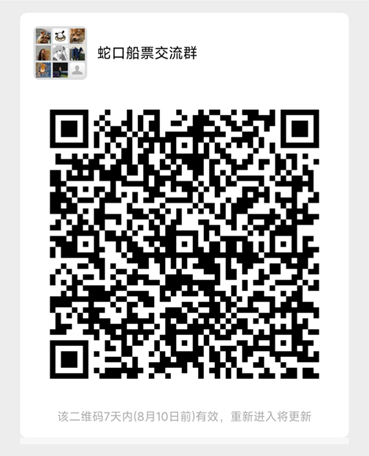
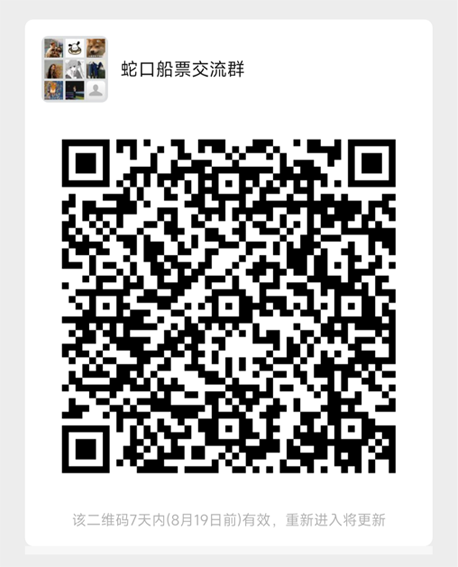
rename file update qr

diff --git a/page/wechat-push-tutorials/wechat-push-tutorials.html b/page/wechat-push-tutorials/wechat-push-tutorials.html
@@ -18,7 +18,7 @@
 
     <h2>1.用微信扫描如下二维码（长按图片，选择识别图中的二维码）</h2>
 
-    <p><img alt="join-qrcode" src="res/join-qrcode.png"/></p>
+    <p><img alt="join-qrcode" src="res/wecom-qr.png"/></p>
 
     <ul>
         <li>PS:若二维码过期，请联系 <a href="mailto:benjia.h@qq.com">benjia.h@qq.com</a>更新</li>
@@ -26,7 +26,7 @@
 
     <h2>2.加入企业微信（无需下载企业微信）</h2>
 
-    <p><img alt="join" src="res/join.png"/></p>
+    <p><img alt="join" src="res/join-wecom.png"/></p>
 
     <h2>3.添加微信插件，用微信扫描如下二维码</h2>
 
@@ -34,9 +34,9 @@
         <li>这样就可以在微信APP中获取企业微信的推送，从而无需下载企业微信</li>
     </ul>
 
-    <p><img alt="plugin" src="res/plugin.png"/></p>
+    <p><img alt="plugin" src="res/plugin-qr.png"/></p>
 
-    <p><img alt="add_plugin" src="res/add_plugin.png"/></p>
+    <p><img alt="add_plugin" src="res/follow-plugin.png"/></p>
 
     <ul>
         <li>

diff --git a/page/wechat-push-tutorials/wechat-push-tutorials.md b/page/wechat-push-tutorials/wechat-push-tutorials.md
@@ -2,21 +2,21 @@
 
 ## 1.用微信扫描如下二维码
 
-![join-qrcode](res/join-qrcode.png)
+![join-qrcode](res/wecom-qr.png)
 
 - PS:若二维码过期，请联系 [benjia.h@qq.com](mailto:benjia.h@qq.com) 更新
 
 ## 2.加入企业微信（无需下载企业微信）
 
-![join](res/join.png)
+![join](res/join-wecom.png)
 
 ## 3.添加微信插件，用微信扫描如下二维码
 
 - 这样就可以在微信APP中获取企业微信的推送，从而无需下载企业微信
 
-![plugin](res/plugin.png)
+![plugin](res/plugin-qr.png)
 
-![add_plugin](res/add_plugin.png)
+![add_plugin](res/follow-plugin.png)
 
 - !!注意!!：**如果显示⌈当前企业未验证主体信息，微信插件已达到当日关注人数上限。企业验证主体信息后可继续关注，你也可下载企业微信App使用。⌋请跳过此步，并下载企业微信接收通知。**
 - PS:若二维码过期，请联系 [benjia.h@qq.com](mailto:benjia.h@qq.com) 更新
